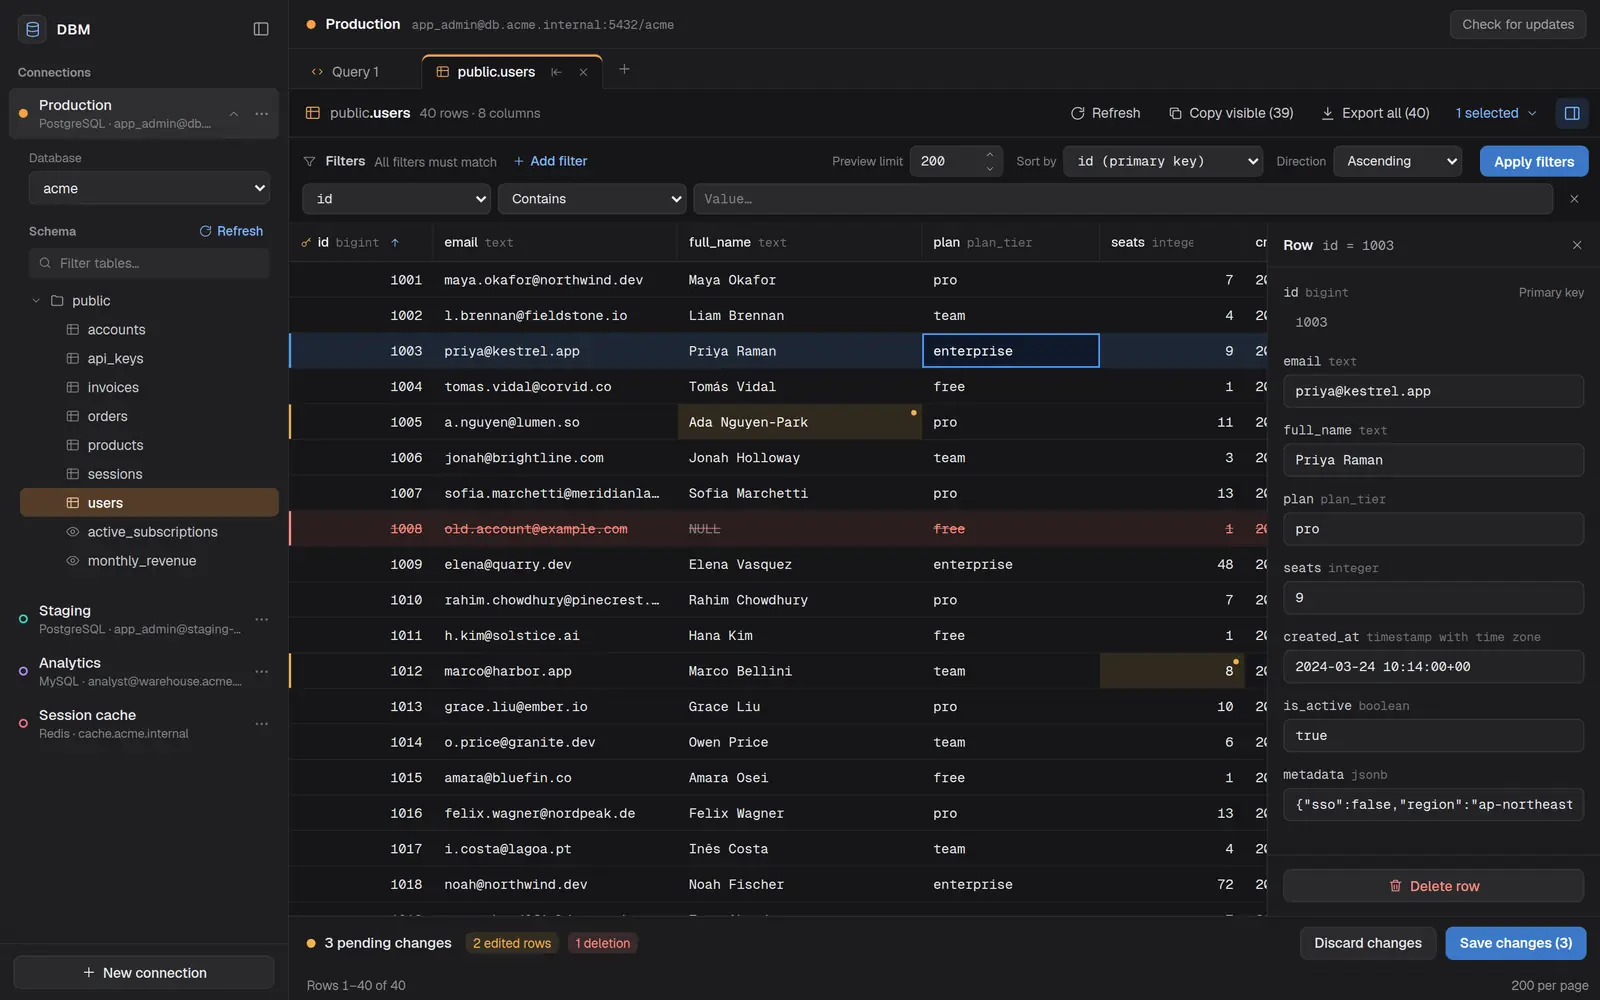
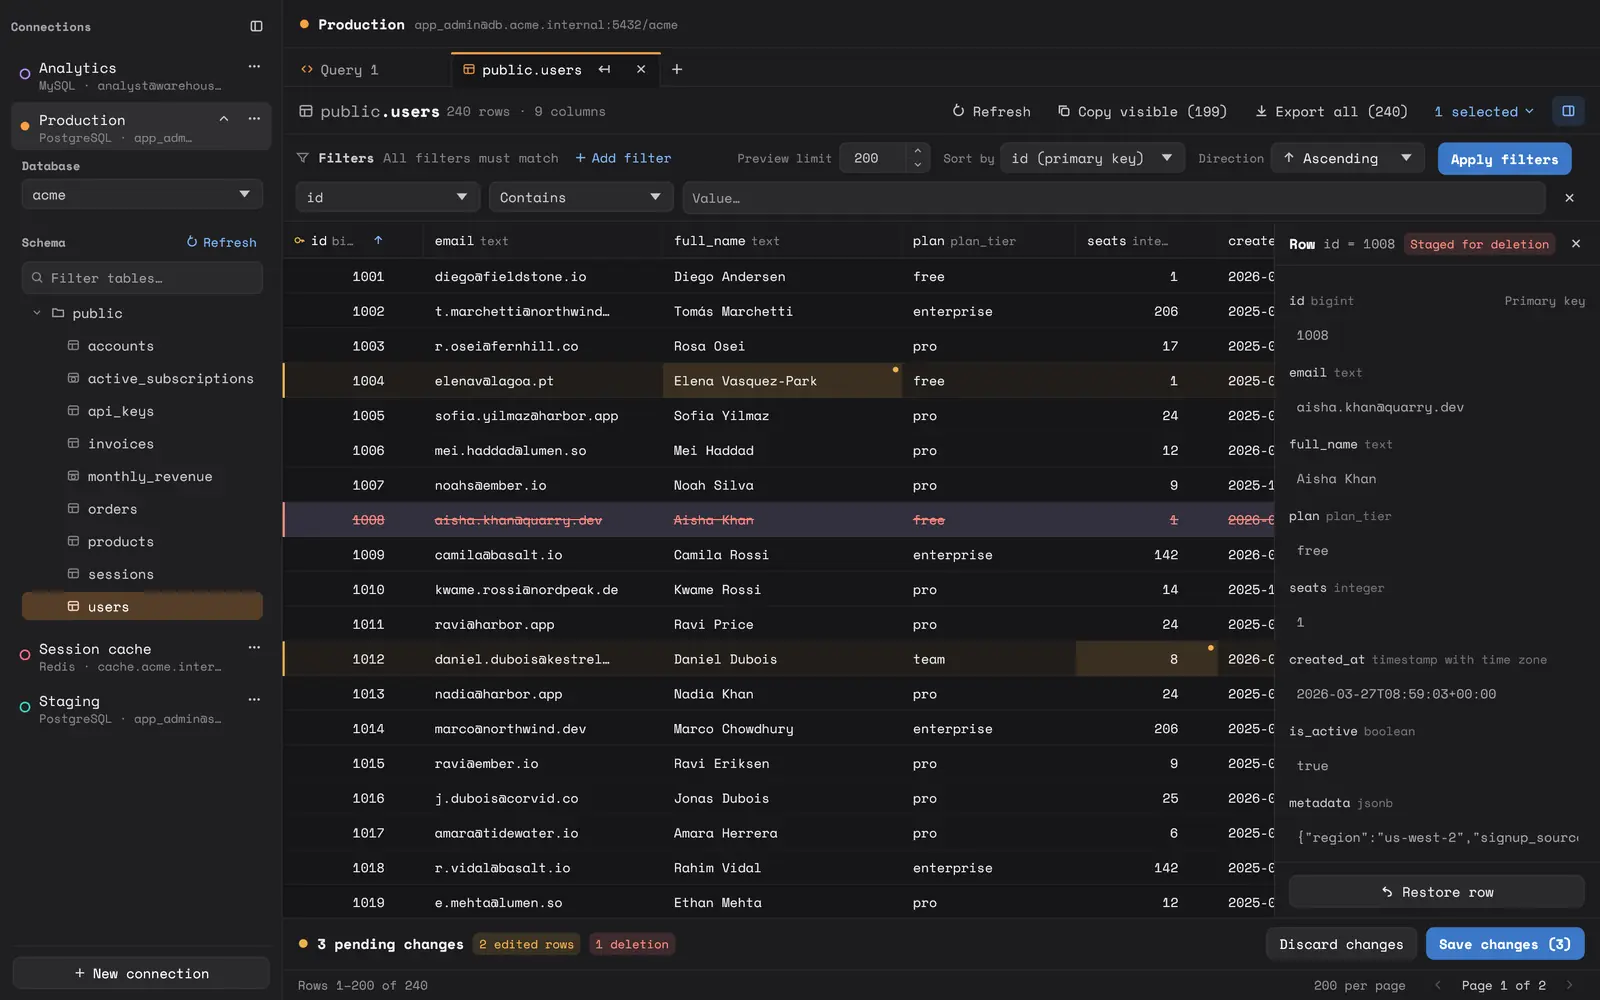
Fix a crash when clearing the SQL editor, show enum column types, and publish Anybase-named installers (#114)
- Windows/Linux: selecting all the SQL and deleting it no longer crashes the app.
- PostgreSQL enum and domain columns show their type name (for example plan_tier) instead of USER-DEFINED.
- Releases also publish Anybase-macOS.dmg, Anybase-Windows-x64-setup.exe and Anybase-Linux-x86_64.AppImage. Updaters keep the DBM-named files.
- README and website screenshots retaken against real PostgreSQL, MySQL and Redis databases.
- Discord mobile release results say Anybase mobile; the mobile release test matches the automatic release trigger.

Claude-Session: https://claude.ai/code/session_01A6QrULMav6seQ8nTi6rr5P

diff --git a/crates/dbm-core/src/postgres.rs b/crates/dbm-core/src/postgres.rs
@@ -160,7 +160,10 @@ impl PgSession {
                      JOIN pg_index i ON i.indrelid = rel.oid AND i.indisprimary
                      JOIN pg_attribute a ON a.attrelid = rel.oid AND a.attnum = ANY(i.indkey)
                  )
-                 SELECT ordinal_position, column_name, data_type, is_nullable, column_default,
+                 -- Enums and domains report USER-DEFINED; show their own type name.
+                 SELECT ordinal_position, column_name,
+                        CASE WHEN data_type = 'USER-DEFINED' THEN udt_name::text ELSE data_type END,
+                        is_nullable, column_default,
                         (SELECT relkind FROM rel), (SELECT columns FROM pk)
                  FROM information_schema.columns
                  WHERE table_schema = $1 AND table_name = $2
@@ -1441,6 +1444,36 @@ mod tests {
                 .batch_execute(&format!("DROP TABLE public.{table}"))
                 .await
                 .expect("cleanup");
+        }
+
+        #[tokio::test]
+        async fn enum_columns_report_their_type_name() {
+            let Some(profile) = profile(false) else {
+                return;
+            };
+            let session = PgSession::connect(profile, None).await.expect("connect");
+            let suffix = Uuid::new_v4().simple();
+            session
+                .client
+                .batch_execute(&format!(
+                    "CREATE TYPE public.tier_{suffix} AS ENUM ('free', 'pro');
+                     CREATE TABLE public.plans_{suffix} (id int PRIMARY KEY, tier public.tier_{suffix})"
+                ))
+                .await
+                .expect("fixture");
+            let metadata = session
+                .table_metadata("public", &format!("plans_{suffix}"))
+                .await
+                .expect("metadata");
+            session
+                .client
+                .batch_execute(&format!(
+                    "DROP TABLE public.plans_{suffix}; DROP TYPE public.tier_{suffix}"
+                ))
+                .await
+                .expect("cleanup");
+            assert_eq!(metadata.columns[0].data_type, "integer");
+            assert_eq!(metadata.columns[1].data_type, format!("tier_{suffix}"));
         }
 
         #[tokio::test]

diff --git a/scripts/test_mobile_release.py b/scripts/test_mobile_release.py
@@ -204,21 +204,26 @@ else:
             CI_RUN_URL="https://github.com/joswayski/dbm/actions/runs/123",
         )
 
-    def test_ready_notification_pins_the_sha_and_disables_mentions(self):
-        self.configure_curl()
+    def test_ready_release_dispatches_only_the_tested_main_commit(self):
         ready = workflow("mobile-ready.yml")
         self.assertEqual(ready["on"]["workflow_run"]["workflows"], ["Mobile development builds"])
-        self.assertIn("conclusion == 'success'", ready["jobs"]["notify"]["if"])
-        self.assertIn("event == 'push'", ready["jobs"]["notify"]["if"])
-        result = self.run_step(ready["jobs"]["notify"]["steps"][0]["run"])
+        self.assertEqual(ready["on"]["workflow_run"]["branches"], ["main"])
+        job = ready["jobs"]["release"]
+        for condition in ("conclusion == 'success'", "event == 'push'", "head_branch == 'main'"):
+            self.assertIn(condition, job["if"])
+        script = job["steps"][0]["run"]
+        summary = str(self.directory / "summary")
+        result = self.run_step(script, GIT_SHA=SHA, GITHUB_STEP_SUMMARY=summary)
         self.assertEqual(result.returncode, 0, result.stderr)
-        payload = json.loads((self.directory / "calls").read_text())["payload"]
-        self.assertEqual(payload["allowed_mentions"], {"parse": []})
-        self.assertEqual(payload["embeds"][0]["title"], "Native apps; $(touch unsafe)")
+        self.assertEqual(
+            (self.directory / "calls").read_text().splitlines(),
+            [f"workflow run mobile-release.yml --repo joswayski/dbm --ref main -f git_sha={SHA}"],
+        )
+        (self.directory / "calls").unlink()
+        result = self.run_step(script, GIT_SHA="main; touch unsafe", GITHUB_STEP_SUMMARY=summary)
+        self.assertNotEqual(result.returncode, 0)
+        self.assertFalse((self.directory / "calls").exists())
         self.assertFalse((self.directory / "unsafe").exists())
-        buttons = payload["components"][0]["components"]
-        self.assertEqual(buttons[0]["custom_id"], f"production-deploy:v1:dbm-mobile:{SHA}")
-        self.assertTrue(buttons[1]["url"].endswith("/mobile-release.yml"))
 
     def test_result_controls_and_rejected_foreign_run_url(self):
         self.configure_curl()

diff --git a/apps/native/workbench/src/workbench.rs b/apps/native/workbench/src/workbench.rs
@@ -3533,6 +3533,12 @@ fn icon_btn(
 
 fn editor_layout(engine: DatabaseEngine, text: &str) -> LayoutJob {
     let font = mono(12.5);
+    let mut job = LayoutJob::default();
+    // An empty editor (select all, delete) has no first byte to color.
+    if text.is_empty() {
+        job.append("", 0.0, TextFormat::simple(font, theme::TEXT));
+        return job;
+    }
     let mut colors = vec![theme::TEXT; text.len()];
     for token in highlight(engine, text) {
         let color = match token.kind {
@@ -3546,7 +3552,6 @@ fn editor_layout(engine: DatabaseEngine, text: &str) -> LayoutJob {
             *slot = color;
         }
     }
-    let mut job = LayoutJob::default();
     let mut start = 0;
     for (index, _) in text
         .char_indices()
@@ -3562,9 +3567,6 @@ fn editor_layout(engine: DatabaseEngine, text: &str) -> LayoutJob {
             TextFormat::simple(font.clone(), colors[start]),
         );
         start = index;
-    }
-    if text.is_empty() {
-        job.append("", 0.0, TextFormat::simple(font, theme::TEXT));
     }
     job
 }
@@ -5221,6 +5223,13 @@ mod tests {
             job.sections.len() > 3,
             "keywords, literals, and text are separate sections"
         );
+    }
+
+    #[test]
+    fn editor_layout_handles_an_empty_editor() {
+        let job = editor_layout(DatabaseEngine::Postgres, "");
+        assert_eq!(job.text, "");
+        assert_eq!(job.sections.len(), 1);
     }
 
     #[test]

diff --git a/docs/anybase-migration.md b/docs/anybase-migration.md
@@ -10,8 +10,8 @@ when, and which identifiers must never change.
 | Stage | Scope | Status |
 | --- | --- | --- |
 | 1. Website and branding | anyba.se site in `apps/web`; README; josevalerio.com links to anyba.se | Done |
-| 2. App display name | What users see inside and around the installed app | Done, except screenshots and store listings |
-| 3. Download names | Anybase-named first-install downloads | Planned |
+| 2. App display name | What users see inside and around the installed app | Done, except store listings |
+| 3. Download names | Anybase-named first-install downloads | In progress |
 | 4. Repository rename (optional) | `joswayski/dbm` to `joswayski/anybase`, and every hard-coded reference | Planned |
 | 5. Internal names | Crates, env vars, script names | Optional |
 
@@ -45,22 +45,25 @@ Everything users read now says Anybase; every identifier in
 - PostgreSQL connections report `application_name` "Anybase"; the demo fixture's
   query result says "Anybase demo".
 - GitHub release titles: "Anybase <version>" and "Anybase mobile (latest)".
+- Discord mobile release results. Buttons Godis already posted keep their
+  `dbm-mobile` ID.
+- README and website screenshots.
 
 Still to do:
 
-- Refresh `docs/screenshots` (and the website's WebP copies) so the sidebar shows
-  Anybase. The AppKit CI job's `--snapshot-dir` artifact renders the demo states.
 - Rename the Play Console app and the App Store Connect record (store-side names,
-  not in this repository), and the Godis "Deploy DBM mobile" button label.
+  not in this repository).
 - Optional: have the macOS updater move a `DBM.app` install to `Anybase.app`.
   Skipped for now because it would break Dock and login-item references.
 
 ### 3. Download names
 
-Publish `Anybase-macOS.dmg`, `Anybase-Windows-x64-setup.exe`, and
-`Anybase-Linux-x86_64.AppImage` **in addition to** the DBM-named files, then point
-the website and README at them. Installed copies keep downloading the DBM-named
-updater assets listed in [Never change](#never-change).
+Every release publishes `Anybase-macOS.dmg`, `Anybase-Windows-x64-setup.exe`, and
+`Anybase-Linux-x86_64.AppImage`, byte-identical copies of the DBM-named files.
+Installed copies keep downloading the DBM-named updater assets listed in
+[Never change](#never-change), and the DBM-named installers stay for links made
+before the rename. Once a release carries the Anybase files, point the website
+(`apps/web/src/downloads.ts`) and README at them.
 
 ### 4. Repository rename
 
@@ -70,17 +73,22 @@ created at `joswayski/dbm`, so installed apps keep updating through the old
 manifest URL (the updater follows redirects). Repository settings, secrets,
 runners, and GitHub App installations follow the repository.
 
-Three things match the repository **name** and break on rename. Make each accept
-both names and roll it out **before** renaming:
+These match the repository **name** and break on rename. Make each accept both
+names and roll it out **before** renaming:
 
 - **Mobile release signing.** The AWS trust policy in the infrastructure repo's
   `infra/environments/production/release-signing.tf` only accepts
   `repo:joswayski@22891173/dbm@1300057641`. After a rename GitHub sends the new
   name, AWS refuses the role, and Play/TestFlight releases fail. Add the new
   subject and `tofu apply`.
-- **Self-hosted Mac runner.** The job hook written by `scripts/mac-ci-runner.sh`
-  only allows `joswayski/dbm`, so main-branch macOS jobs, including release
-  builds, fail on `josemac`. Add the new name and rerun the setup on the Mac.
+- **Self-hosted runners.** The job hooks written by the infrastructure repo's
+  `scripts/mac-ci-runner.sh`, `scripts/windows-ci-runner.ps1`, and
+  `scripts/windows-ci/linux-runner.sh` only allow `joswayski/dbm`, so jobs routed
+  to `josemac`, `josewin`, and `joselinux` fail. Add the new name and rerun each
+  machine's setup.
+- **Mobile release Discord update.** `scripts/update-discord-mobile-release.sh`
+  only accepts run URLs under `joswayski/dbm`, so the Discord message after a
+  mobile release fails. Accept both names.
 - **Godis mobile Deploy button.** `src/deployments.rs` requests a GitHub App
   token scoped to the repository named `dbm` (`DBM_REPOSITORY`), which no longer
   exists after a rename. Update it and deploy Godis right after the rename. Keep

diff --git a/docs/releases.md b/docs/releases.md
@@ -53,7 +53,8 @@ for it and then releases everything merged since.
 
 | Asset | Use |
 | --- | --- |
-| `DBM-macOS.dmg` | First install on macOS (signed, notarized, stapled) |
+| `Anybase-macOS.dmg`, `Anybase-Windows-x64-setup.exe`, `Anybase-Linux-x86_64.AppImage` | First install, linked from anyba.se and the README. Byte-identical copies of the DBM-named files below |
+| `DBM-macOS.dmg` | First install on macOS (signed, notarized, stapled), for links made before the rename |
 | `DBM-macOS.zip` | Native updater on macOS |
 | `DBM.app.tar.gz` | Updates for installs of the former Tauri app on macOS |
 | `DBM-Windows-x64-setup.exe` | First install on Windows; also what former Tauri installs run to update |
@@ -69,8 +70,8 @@ The Windows installer needs no administrator rights: it installs to
 `%LOCALAPPDATA%\DBM\dbm.exe`, adds an **Anybase** Start menu shortcut, and
 registers an uninstaller. There is no `.deb` package.
 
-Asset names, the Windows folder and executable, and the uninstall key keep
-their DBM names from before the Anybase rename, so installed copies keep
+Updater asset names, the Windows folder and executable, and the uninstall key
+keep their DBM names from before the Anybase rename, so installed copies keep
 updating (see [the rename plan](anybase-migration.md#never-change)). The
 macOS archives hold `Anybase.app`, except `DBM.app.tar.gz`, which keeps the
 `DBM.app` folder name the Tauri updater expects. Updates install over the
@@ -253,9 +254,9 @@ To check a downloaded release by hand:
 codesign --verify --deep --strict --verbose=2 Anybase.app
 spctl --assess --type execute --verbose=2 Anybase.app
 xcrun stapler validate Anybase.app
-codesign --verify --strict --verbose=2 DBM-macOS.dmg
-spctl --assess --type open --context context:primary-signature --verbose=2 DBM-macOS.dmg
-xcrun stapler validate DBM-macOS.dmg
+codesign --verify --strict --verbose=2 Anybase-macOS.dmg
+spctl --assess --type open --context context:primary-signature --verbose=2 Anybase-macOS.dmg
+xcrun stapler validate Anybase-macOS.dmg
 ```
 
 Also install the DMG on a clean supported Mac and launch the installed copy
@@ -343,9 +344,9 @@ Verify a download on a clean Ubuntu system:
 
 ```sh
 sha256sum --check --ignore-missing SHA256SUMS
-gh attestation verify ./DBM-Linux-x86_64.AppImage --repo joswayski/dbm
-chmod +x ./DBM-Linux-x86_64.AppImage
-./DBM-Linux-x86_64.AppImage
+gh attestation verify ./Anybase-Linux-x86_64.AppImage --repo joswayski/dbm
+chmod +x ./Anybase-Linux-x86_64.AppImage
+./Anybase-Linux-x86_64.AppImage
 ```
 
 An embedded GPG signature may also be added to the AppImage, but AppImage does

diff --git a/docs/development.md b/docs/development.md
@@ -197,9 +197,13 @@ in [the rename plan](anybase-migration.md#website).
 
 ## Screenshots
 
-The README screenshots in `docs/screenshots/` are captured from the native
-apps' `--demo` fixture. The AppKit app can also render the fixture's main
-states to PNG files without interaction:
+The README screenshots in `docs/screenshots/` show the Windows/Linux app
+connected to real local PostgreSQL, MySQL, and Redis servers loaded with sample
+data, captured at 2× in a 1472×920-point window (2944×1840 pixels). The
+connection dialog needs that height to fit without scrolling.
+
+The AppKit app can also render the demo fixture's main states to PNG files
+without interaction:
 
 ```sh
 mkdir -p target/native/snapshots
@@ -210,12 +214,15 @@ This macOS-only run also checks header copying, query pane resizing, and
 replacing query results with fewer rows, different columns, or an empty result.
 The result checks use synthetic data in an isolated grid, not a live database.
 
-The website serves 1600-pixel WebP copies. After replacing a README screenshot,
-regenerate them with ImageMagick:
+The website serves 1600-pixel WebP copies, and `apps/web/public/og.jpg` is the
+change preview at 1200×750. After replacing a README screenshot, regenerate
+them with ImageMagick:
 
 ```sh
 for f in docs/screenshots/*.png; do
   convert "$f" -resize 1600x -quality 84 -define webp:method=6 \
     "apps/web/public/screenshots/$(basename "${f%.png}").webp"
 done
+convert docs/screenshots/change-preview.png -resize 1200x750 -strip -quality 86 \
+  apps/web/public/og.jpg
 ```
